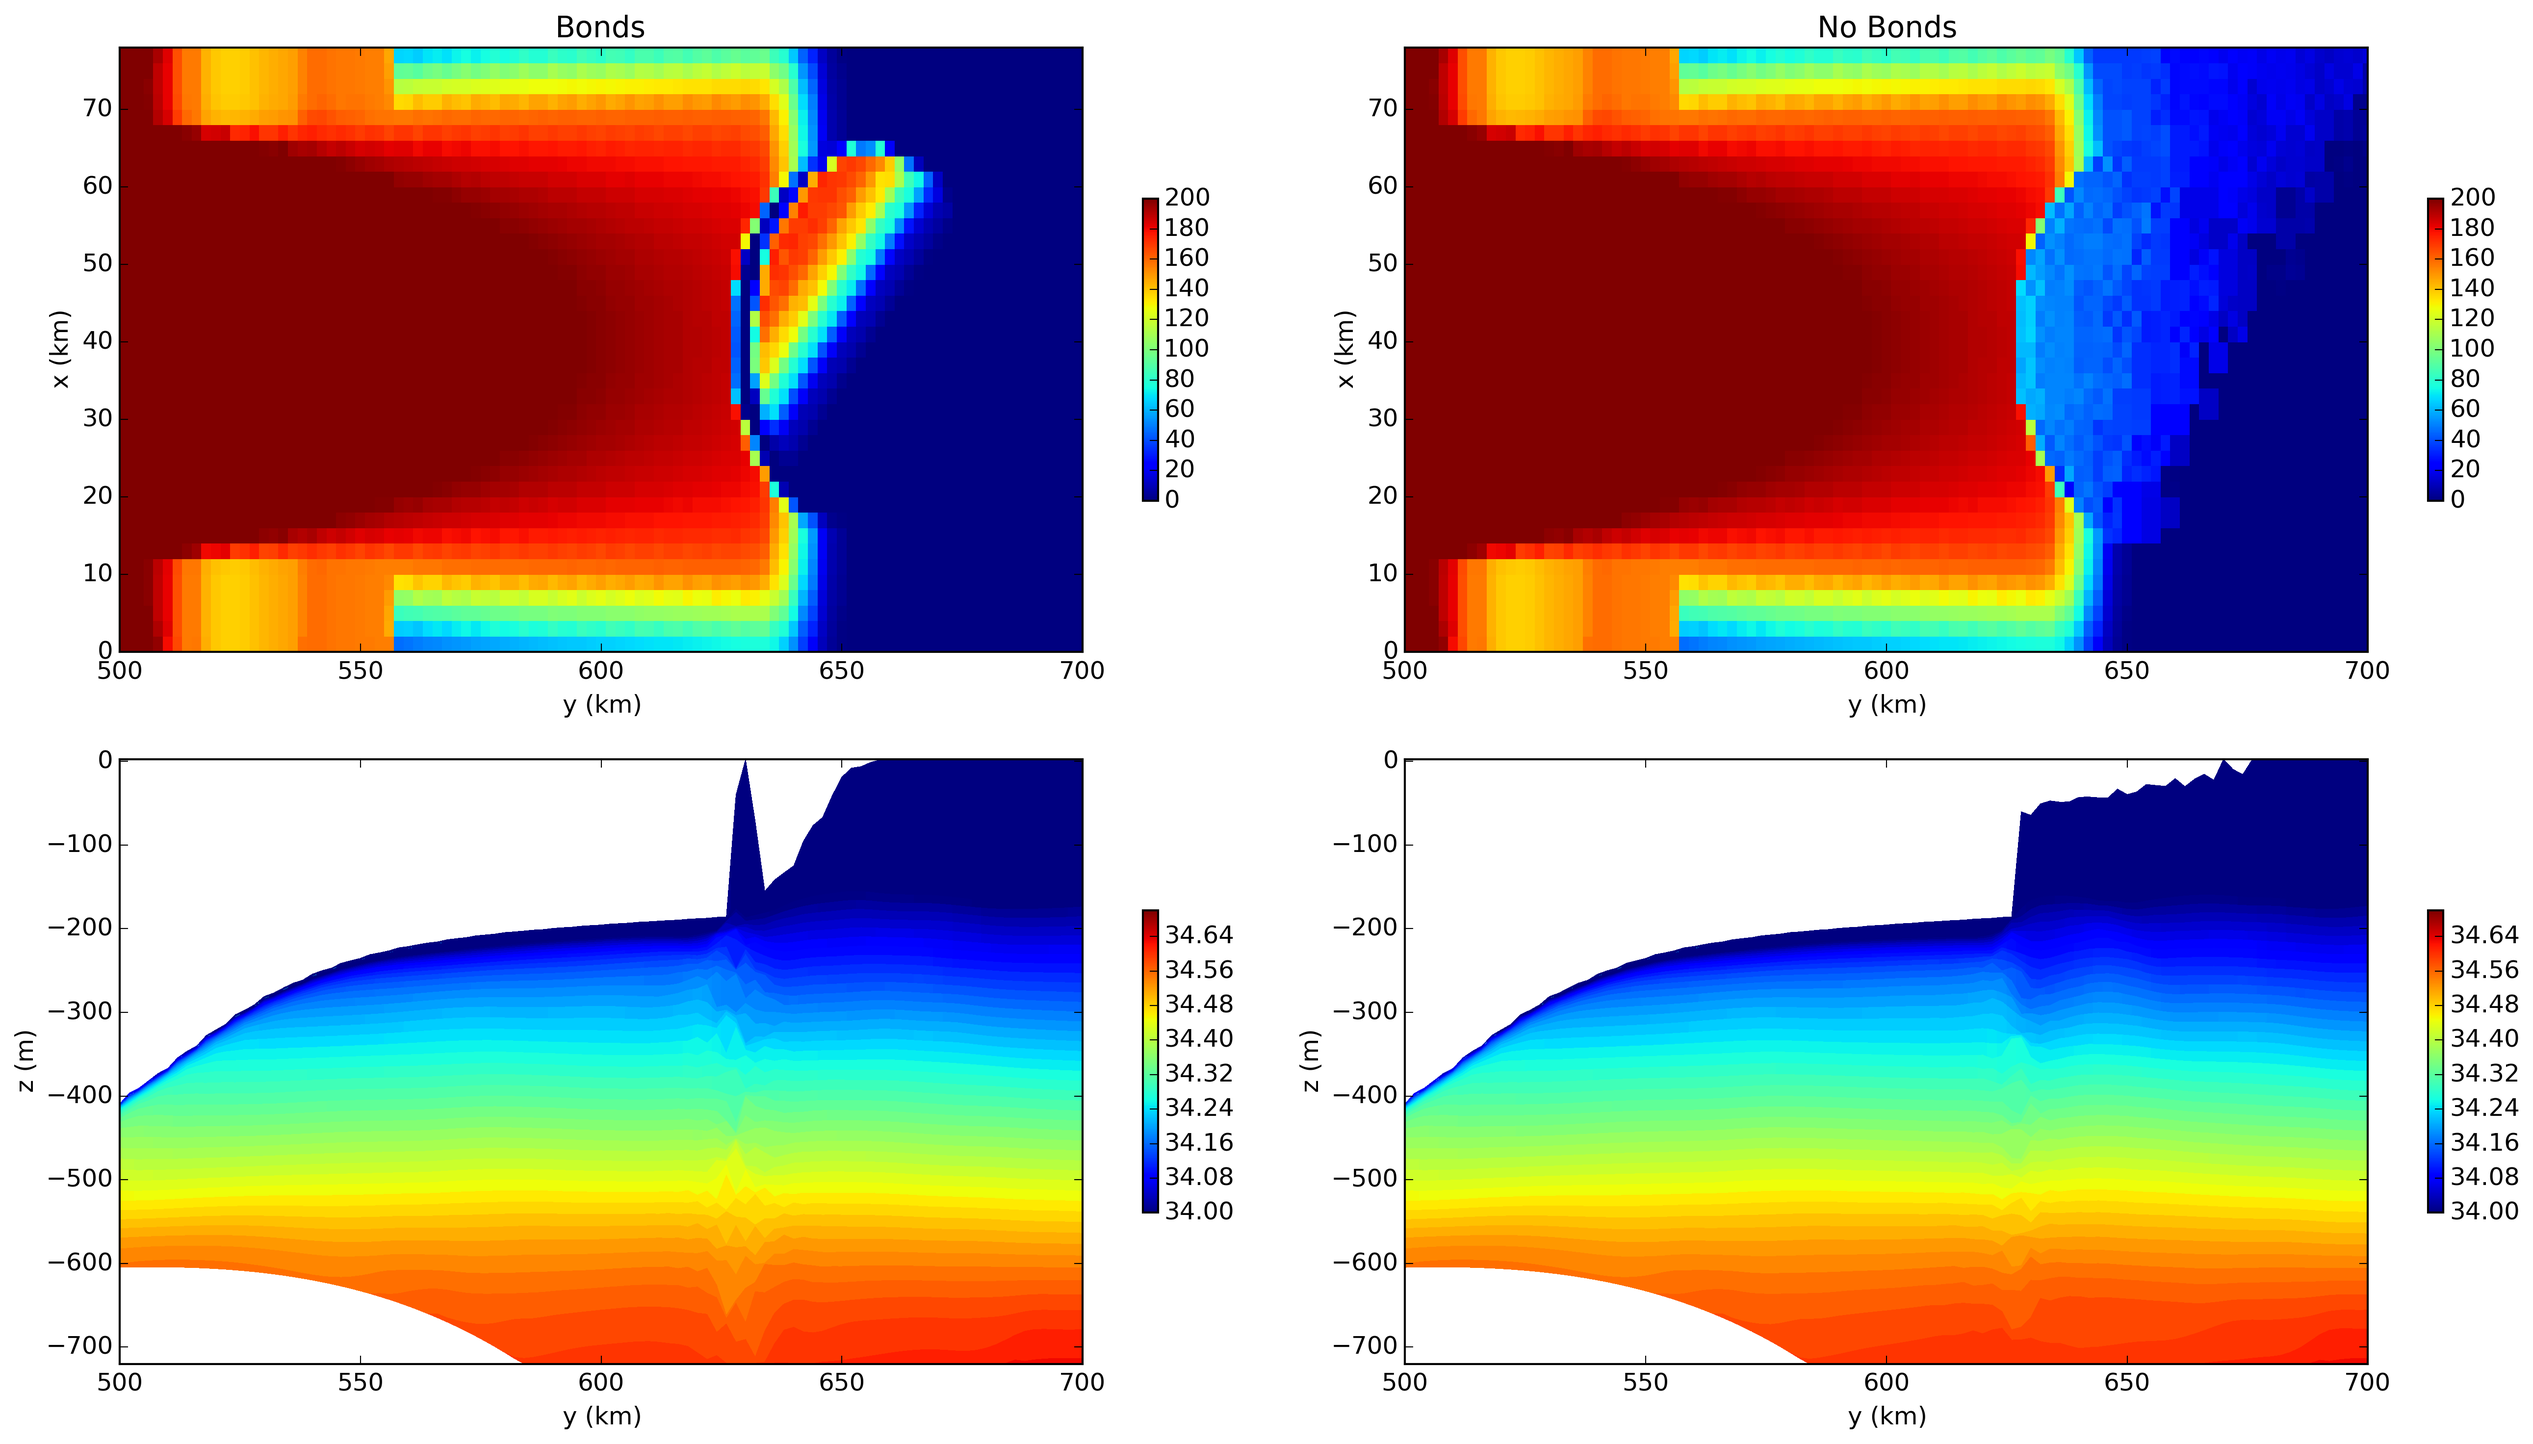
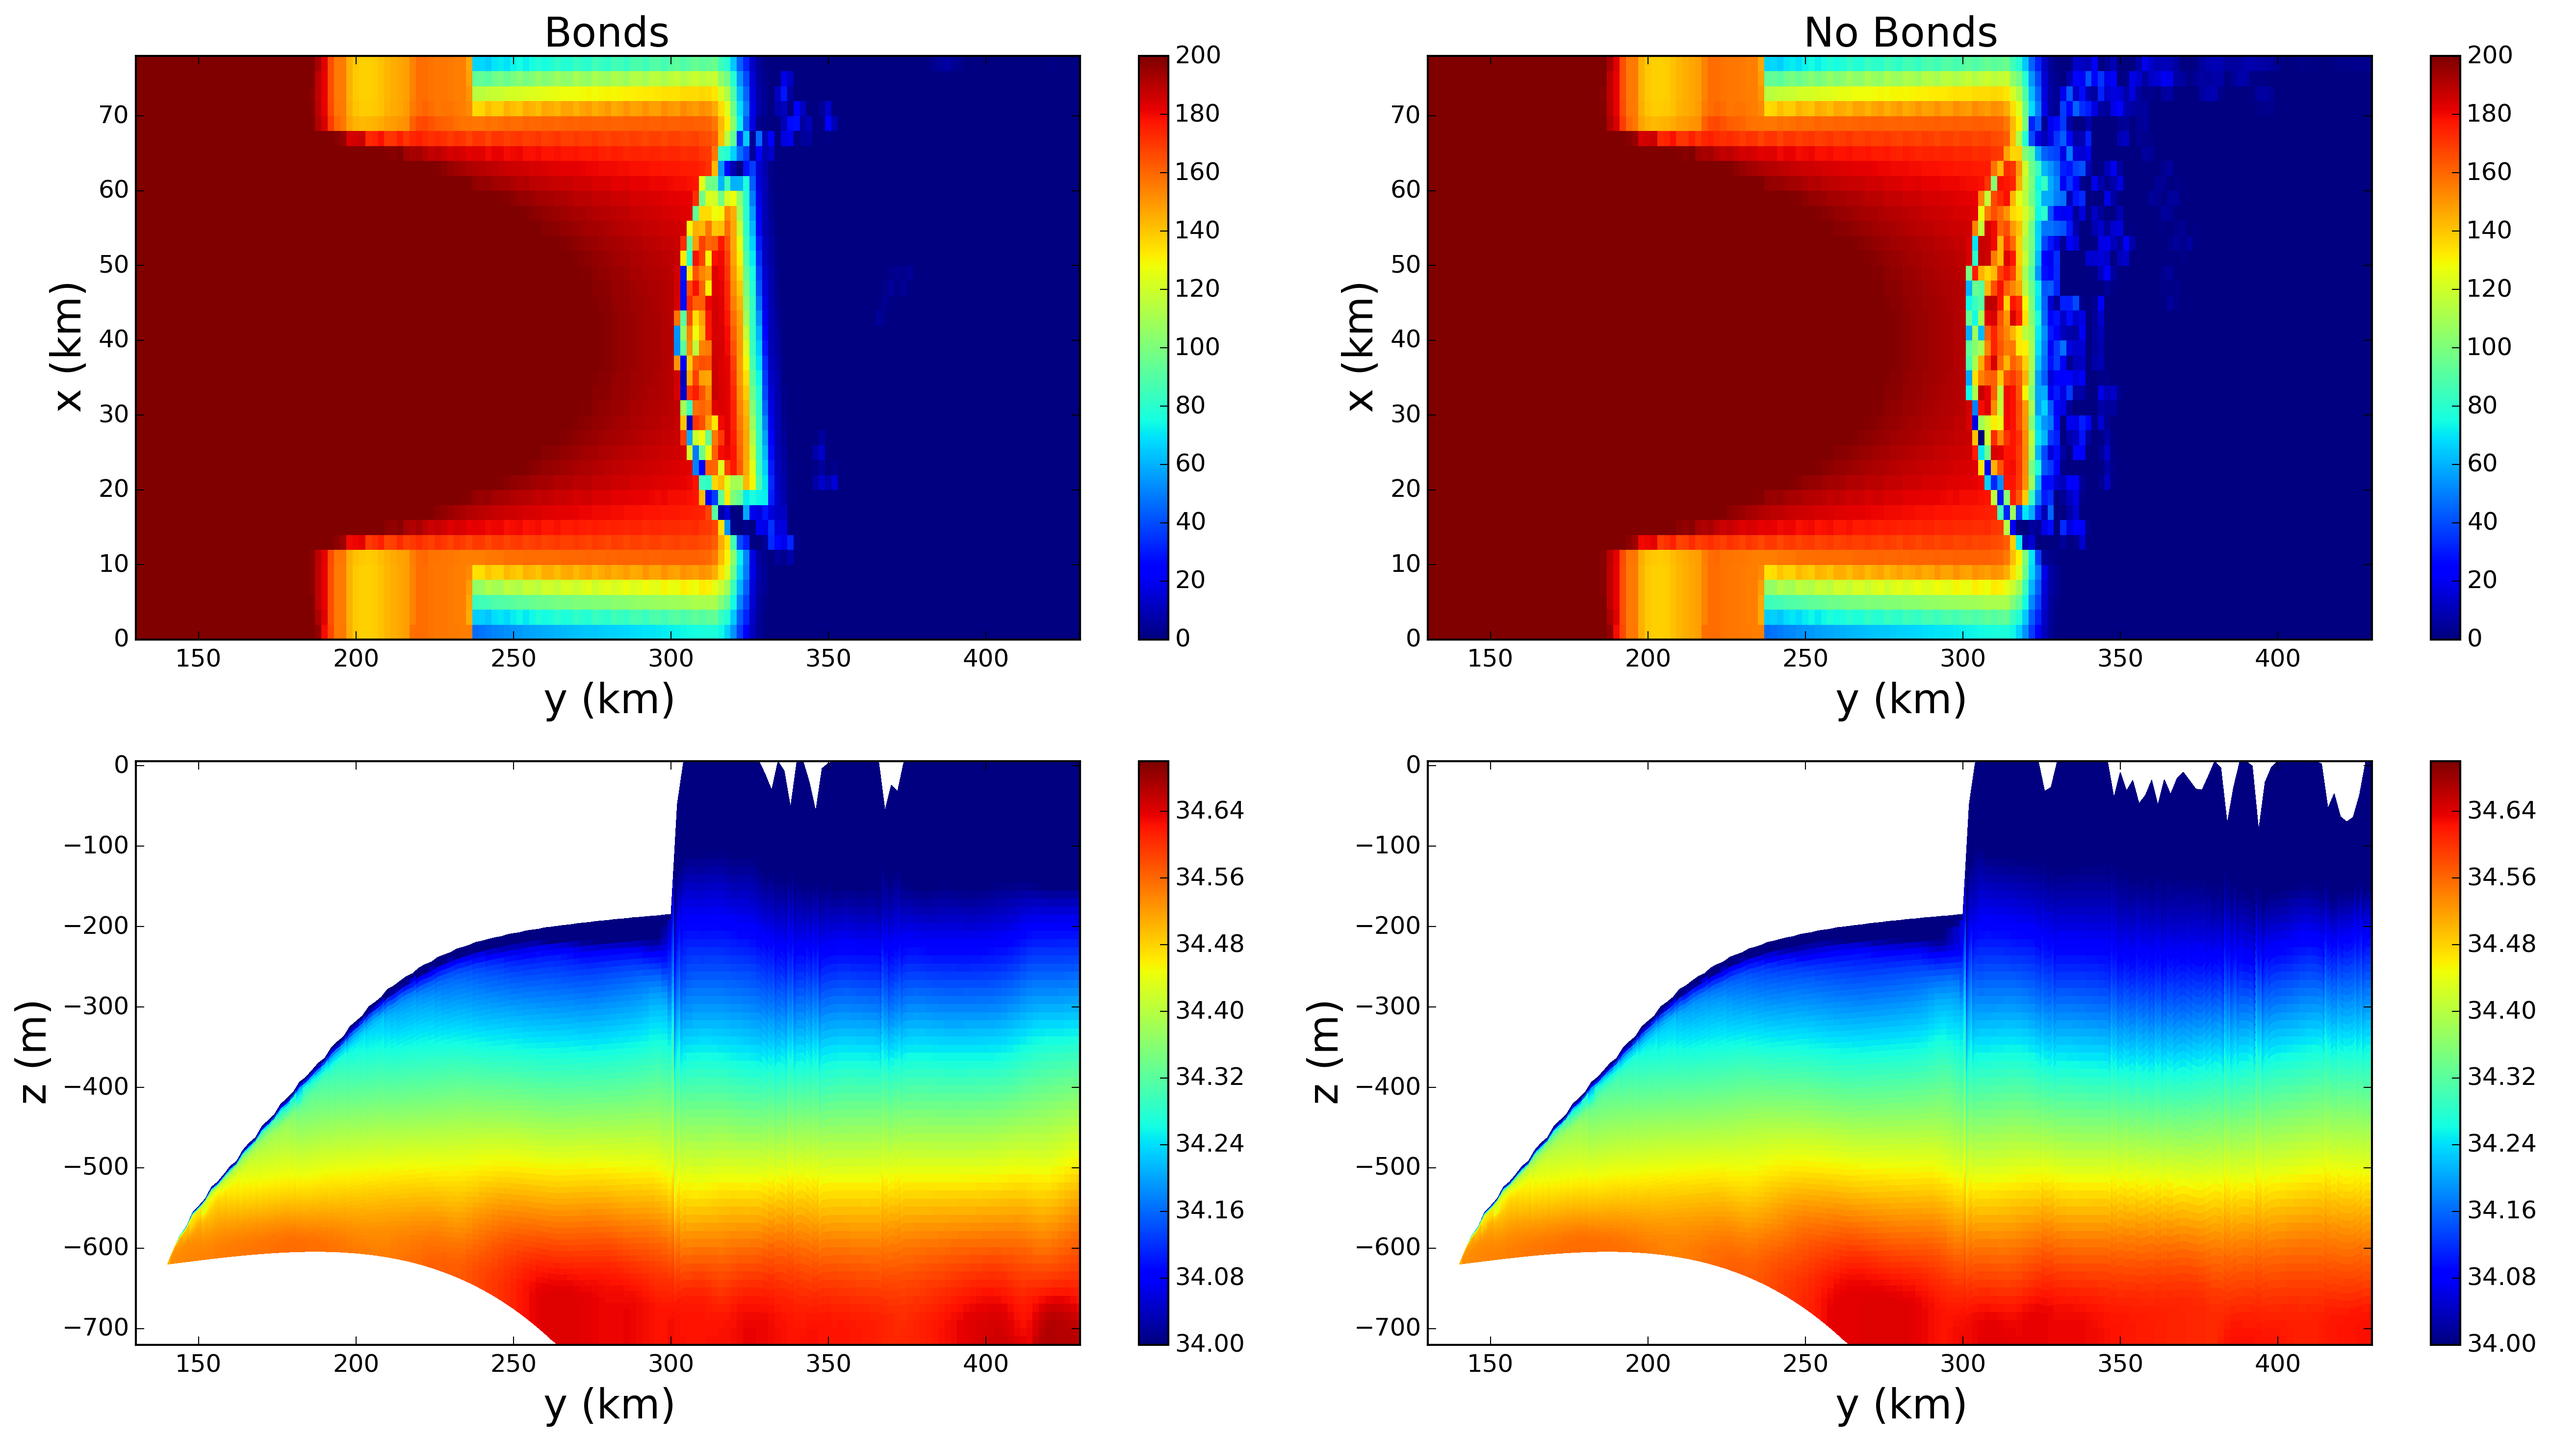
updated figure Bond vs No bond scripts and figures

diff --git a/drift_bond.py b/drift_bond.py
@@ -20,13 +20,36 @@ from static_shelf_comparison import *
 ##########################################################  Main Program   #########################################################################
 ####################################################################################################################################################
 
-def main():
-	parser = argparse.ArgumentParser()
-	args = parser.parse_args()
+def parseCommandLine():
+        """
+        Parse the command line positional and optional arguments.
+        This is the highest level procedure invoked from the very end of the script.
+        """
 
+        parser = argparse.ArgumentParser(description=
+        '''
+        Plot snapshots of either surface or vertical sections, for Tech paper.
+        ''',
+        epilog='Written by Alon Stern, Dec. 2016.')
+	
+	#Adding an extra boolian type argument
+        parser.register('type','bool',str2bool) # add type keyword to registries
+
+
+
+	#Adding arguments:
+
+	#Saving figure
+	parser.add_argument('-save_figure', type='bool', default=False,
+		                        help=''' When true, the figure produced by the script is saved''')
+
+        optCmdLineArgs = parser.parse_args()
+        return optCmdLineArgs
+
+def main(args):
 
 	#Plotting flags
-	save_figure=True
+	save_figure=args.save_figure
 
 	#General flags
 	rotated=True
@@ -47,9 +70,15 @@ def main():
 
 	#Defining path
 
+	path='/lustre/f1/unswept/Alon.Stern/MOM6-examples_Alon/ice_ocean_SIS2/Tech_ISOMIP/Bergs/'
 	Fixed_berg_path='/lustre/f1/unswept/Alon.Stern/MOM6-examples_Alon/ice_ocean_SIS2/Tech_ISOMIP/Bergs/completed/fixed_speed_Moving_berg_trimmed_shelf/'
 	Drift_berg_path='/lustre/f1/unswept/Alon.Stern/MOM6-examples_Alon/ice_ocean_SIS2/Tech_ISOMIP/Bergs/completed/drifting_Moving_berg_trimmed_shelf/'
 	Bond_berg_path='/lustre/f1/unswept/Alon.Stern/MOM6-examples_Alon/ice_ocean_SIS2/Tech_ISOMIP/Bergs/completed/Bond_drifting_Moving_berg_trimmed_shelf/'
+
+	Drift_berg_path=path+'ALE_z_After_melt_drift_Strong_Wind/'
+	Bond_berg_path=path+'ALE_z_After_melt_Collapse_Strong_Wind/'
+	Drift_berg_path=path+'ALE_z_After_melt_drift_Very_Strong_Wind/'
+	Bond_berg_path=path+'ALE_z_After_melt_Collapse_Very_Strong_Wind/'
 
 	#Geometry files
 	ocean_geometry_filename=Fixed_berg_path +'ocean_geometry.nc'
@@ -79,30 +108,46 @@ def main():
 	#fig = plt.figure(facecolor='black')
 	#ax = fig.add_subplot(111,axisbg='gray')
 
+	yhi=700.-320.
+	ylo=500.-320
+	yhi=750.-320.
+	ylo=450.-320
+	#yhi=450
+	#ylo=200
+		
+	time_slice_num=30 
+	dir_slice_num=10
 	######################################################################################################################
 	################################  Plotting Horizontal field  ##########################################################
 	######################################################################################################################
 	
 	if plot_horizontal_field is True:
 		cmap='jet'
+		cmap='Blues'
 		time_slice=''
 		flipped=True
+		rev_ind=range(len(xvec)-1,-1,-1) #indecies to reverse array
+		xvec_rev=xvec[rev_ind]
+		x_rev=x[:,rev_ind]
+		#x_rev=xvec[range(len(xvec)-1,-1,-1),:]
+		print x_rev.shape
 		#field='uo' ; vmin=-0.03  ; vmax=0.03 ; cmap='bwr'; time_slice='mean'
 		#field='vo' ; vmin=-0.03  ; vmax=0.03 ; cmap='bwr'; time_slice='mean'
 
 		#field='sst' ;  vmin=0.0  ; vmax=3.0
-		#field='spread_area' ; vmin=0.0  ; vmax=3.0
-		field='spread_mass' ; vmin=0.0  ; vmax=150000. 
+		field='spread_area' ; vmin=0.0  ; vmax=1.0
+		#field='spread_mass' ; vmin=0.0  ; vmax=150000. 
 		#field='spread_uvel' ; vmin=-2.0  ; vmax=1.0
 
-		#data1=load_and_compress_data(Fixed_iceberg_file,field=field,time_slice=time_slice,time_slice_num=-1,rotated=rotated)
-		(data2, time2)=load_and_compress_data(Drift_iceberg_file,field=field,time_slice=time_slice,time_slice_num=-1,rotated=rotated,return_time=True) 
-		(data3,time3)=load_and_compress_data(Bond_iceberg_file,field=field,time_slice=time_slice,time_slice_num=-1,rotated=rotated,return_time=True) 
+
+		#data1=load_and_compress_data(Fixed_iceberg_file,field=field,time_slice=time_slice,time_slice_num=time_slice_num,rotated=rotated)
+		(data2, time2)=load_and_compress_data(Drift_iceberg_file,field=field,time_slice=time_slice,time_slice_num=time_slice_num,rotated=rotated,return_time=True) 
+		(data3,time3)=load_and_compress_data(Bond_iceberg_file,field=field,time_slice=time_slice,time_slice_num=time_slice_num,rotated=rotated,return_time=True) 
 		
 		#Converting to draft
-		data3=data3/(rho_water)  ; data2=data2/(rho_water) ; vmax=200
-		data3[np.where(data3==0)]=np.nan
-		data2[np.where(data2==0)]=np.nan
+		#data3=data3/(rho_water)  ; data2=data2/(rho_water) ; vmax=200
+		#data3[np.where(data3==0)]=np.nan
+		#data2[np.where(data2==0)]=np.nan
 
 		#data1=mask_ocean(data1,shelf_area)
 		#data2=mask_ocean(data2,shelf_area)
@@ -111,11 +156,17 @@ def main():
 		#plot_data_field(data1,x,y,vmin,vmax,flipped,colorbar=True,cmap='jet',title='Fixed',xlabel='x (km)',ylabel='y (km)', ylim_min=500.,ylim_max=750.)	
 		#plt.plot(xvec,grounding_line, linewidth=3.0,color='black')
 		plt.subplot(2,2,2)
-		plot_data_field(data2,x,y,vmin,vmax,flipped,colorbar=True,cmap='jet',title='No Bonds',xlabel='x (km)',ylabel='y (km)', ylim_min=500.,ylim_max=700.)	
-		plt.plot(xvec,grounding_line, linewidth=3.0,color='black')
+		plot_data_field(data2,x_rev,y,vmin,vmax,flipped,colorbar=True,cmap=cmap,title='No Bonds',xlabel='x (km)',ylabel='y (km)', ylim_min=ylo,ylim_max=yhi)	
+		plt.ylim([np.max(x) ,np.min(x)])
+		#plt.plot(xvec,grounding_line, linewidth=3.0,color='black')
+		#plt.plot(np.array([ylo, yhi]),np.array([xvec_rev[dir_slice_num], xvec_rev[dir_slice_num]]) ,'--', color='k',linewidth=3 )
+		plt.plot(np.array([ylo, yhi]),np.array([xvec[dir_slice_num], xvec[dir_slice_num]]) ,'--', color='k',linewidth=3 )
 		plt.subplot(2,2,1)
-		plot_data_field(data3,x,y,vmin,vmax,flipped,colorbar=True,cmap='jet',title='Bonds',xlabel='x (km)',ylabel='y (km)', ylim_min=500.,ylim_max=700.)	
-		plt.plot(xvec,grounding_line, linewidth=3.0,color='black')
+		plot_data_field(data3,x_rev,y,vmin,vmax,flipped,colorbar=True,cmap=cmap,title='Bonds',xlabel='x (km)',ylabel='y (km)', ylim_min=ylo,ylim_max=yhi)	
+		plt.ylim([np.max(x), np.min(x)])
+		#plt.plot(xvec,grounding_line, linewidth=3.0,color='black')
+		plt.plot(np.array([ylo, yhi]),np.array([xvec[dir_slice_num], xvec[dir_slice_num]]) ,'--', color='k',linewidth=3 )
+		#plt.plot(np.array([ylo, yhi]),np.array([xvec_rev[dir_slice_num], xvec_rev[dir_slice_num]]) ,'--', color='k',linewidth=3 )
 
 
 	######################data###############################################################################################
@@ -129,8 +180,8 @@ def main():
 		time_slice=''
 		#vertical_coordinate='z'
 		vertical_coordinate='layers'  #'z'
-		#field='temp'  ; vmin=-2.0  ; vmax=1.0  ;vdiff=0.1   ; vanom=0.3
-		field='salt'  ; vmin=34  ; vmax=34.7  ;vdiff=0.05  ; vanom=0.05
+		field='temp'  ; vmin=-2.0  ; vmax=1.0  ;vdiff=0.1   ; vanom=0.3
+		#field='salt'  ; vmin=34  ; vmax=34.7  ;vdiff=0.05  ; vanom=0.05
 		cmap='jet'
 		filename1=Fixed_ocean_file
 		filename2=Drift_ocean_file
@@ -150,22 +201,29 @@ def main():
 		
 
 
-		#data1=load_and_compress_data(filename1,field , time_slice, time_slice_num=-1, direction=direction ,dir_slice=None, dir_slice_num=20,rotated=rotated)
-		#elevation1 = get_vertical_dimentions(filename1,vertical_coordinate, time_slice, time_slice_num=-1, direction=direction ,dir_slice=None, dir_slice_num=20,rotated=rotated)
+		#data1=load_and_compress_data(filename1,field , time_slice, time_slice_num=time_slice_num, direction=direction ,\
+		#		dir_slice=None, dir_slice_num=20,rotated=rotated)
+		#elevation1 = get_vertical_dimentions(filename1,vertical_coordinate, time_slice, time_slice_num=time_slice_num,\
+		#		direction=direction ,dir_slice=None, dir_slice_num=20,rotated=rotated)
 		#(y1 ,z1 ,data1) =interpolated_onto_vertical_grid(data1, elevation1, dist, vertical_coordinate)
 
-		data2=load_and_compress_data(filename2,field , time_slice, time_slice_num=-1, direction=direction ,dir_slice=None, dir_slice_num=20,rotated=rotated)
-		elevation2 = get_vertical_dimentions(filename2,vertical_coordinate, time_slice, time_slice_num=-1, direction=direction ,dir_slice=None, dir_slice_num=20,rotated=rotated)
+		data2=load_and_compress_data(filename2,field , time_slice, time_slice_num=time_slice_num, direction=direction ,\
+				dir_slice=None, dir_slice_num=dir_slice_num,rotated=rotated)
+		elevation2 = get_vertical_dimentions(filename2,vertical_coordinate, time_slice, time_slice_num=time_slice_num,\
+				direction=direction ,dir_slice=None, dir_slice_num=dir_slice_num,rotated=rotated)
 		(y2 ,z2 ,data2) =interpolated_onto_vertical_grid(data2, elevation2, dist, vertical_coordinate)
 		
-		data3=load_and_compress_data(filename3,field , time_slice, time_slice_num=-1, direction=direction ,dir_slice=None, dir_slice_num=20,rotated=rotated)
-		elevation3 = get_vertical_dimentions(filename3,vertical_coordinate, time_slice, time_slice_num=-1, direction=direction ,dir_slice=None, dir_slice_num=20,rotated=rotated)
+		data3=load_and_compress_data(filename3,field , time_slice, time_slice_num=time_slice_num, direction=direction ,\
+				dir_slice=None, dir_slice_num=dir_slice_num,rotated=rotated)
+		elevation3 = get_vertical_dimentions(filename3,vertical_coordinate, time_slice, time_slice_num=time_slice_num,\
+				direction=direction ,dir_slice=None, dir_slice_num=dir_slice_num,rotated=rotated)
 		(y3 ,z3 ,data3) =interpolated_onto_vertical_grid(data3, elevation3, dist, vertical_coordinate)
 
 		if plot_anomaly is True:
-			data0=load_and_compress_data(filename1,field , time_slice=None, time_slice_num=0, direction=direction ,dir_slice=None, dir_slice_num=20,rotated=rotated)
+			data0=load_and_compress_data(filename1,field , time_slice=None, time_slice_num=0, direction=direction ,\
+					dir_slice=None, dir_slice_num=dir_slice_num,rotated=rotated)
 			elevation0 = get_vertical_dimentions(filename1,vertical_coordinate, time_slice=None, time_slice_num=-1, \
-					direction=direction ,dir_slice=None, dir_slice_num=20,rotated=rotated)
+					direction=direction ,dir_slice=None, dir_slice_num=dir_slice_num,rotated=rotated)
 			(y0 ,z0 ,data0) =interpolated_onto_vertical_grid(data0, elevation0, dist, vertical_coordinate)
 			data1=data1-data0
 			data2=data2-data0
@@ -173,13 +231,12 @@ def main():
 			vmin=-vanom  ; vmax=vanom
 			cmap='jet'
 
-
 		#plt.subplot(3,1,1)
 		#plot_data_field(data1, y1, z1, vmin, vmax, flipped=False, colorbar=True, cmap=cmap)
 		plt.subplot(2,2,4)
-		plot_data_field(data2, y2, z2, vmin, vmax, flipped=False, colorbar=True, cmap=cmap, xlim_min=500.,xlim_max=700.,xlabel='y (km)',ylabel='z (m)')
+		plot_data_field(data2, y2, z2, vmin, vmax, flipped=False, colorbar=True, cmap=cmap, xlim_min=ylo,xlim_max=yhi,xlabel='y (km)',ylabel='z (m)')
 		plt.subplot(2,2,3)
-		plot_data_field(data3, y3, z3, vmin, vmax, flipped=False, colorbar=True, cmap=cmap, xlim_min=500.,xlim_max=700.,xlabel='y (km)',ylabel='z (m)')
+		plot_data_field(data3, y3, z3, vmin, vmax, flipped=False, colorbar=True, cmap=cmap, xlim_min=ylo,xlim_max=yhi,xlabel='y (km)',ylabel='z (m)')
 		
 		#For plotting purposes
 		field=field+'_'+ vertical_coordinate
@@ -202,7 +259,8 @@ def main():
 
 
 if __name__ == '__main__':
-	main()
+	optCmdLineArgs= parseCommandLine()
+	main(optCmdLineArgs)
 	#sys.exit(main())
 
 
